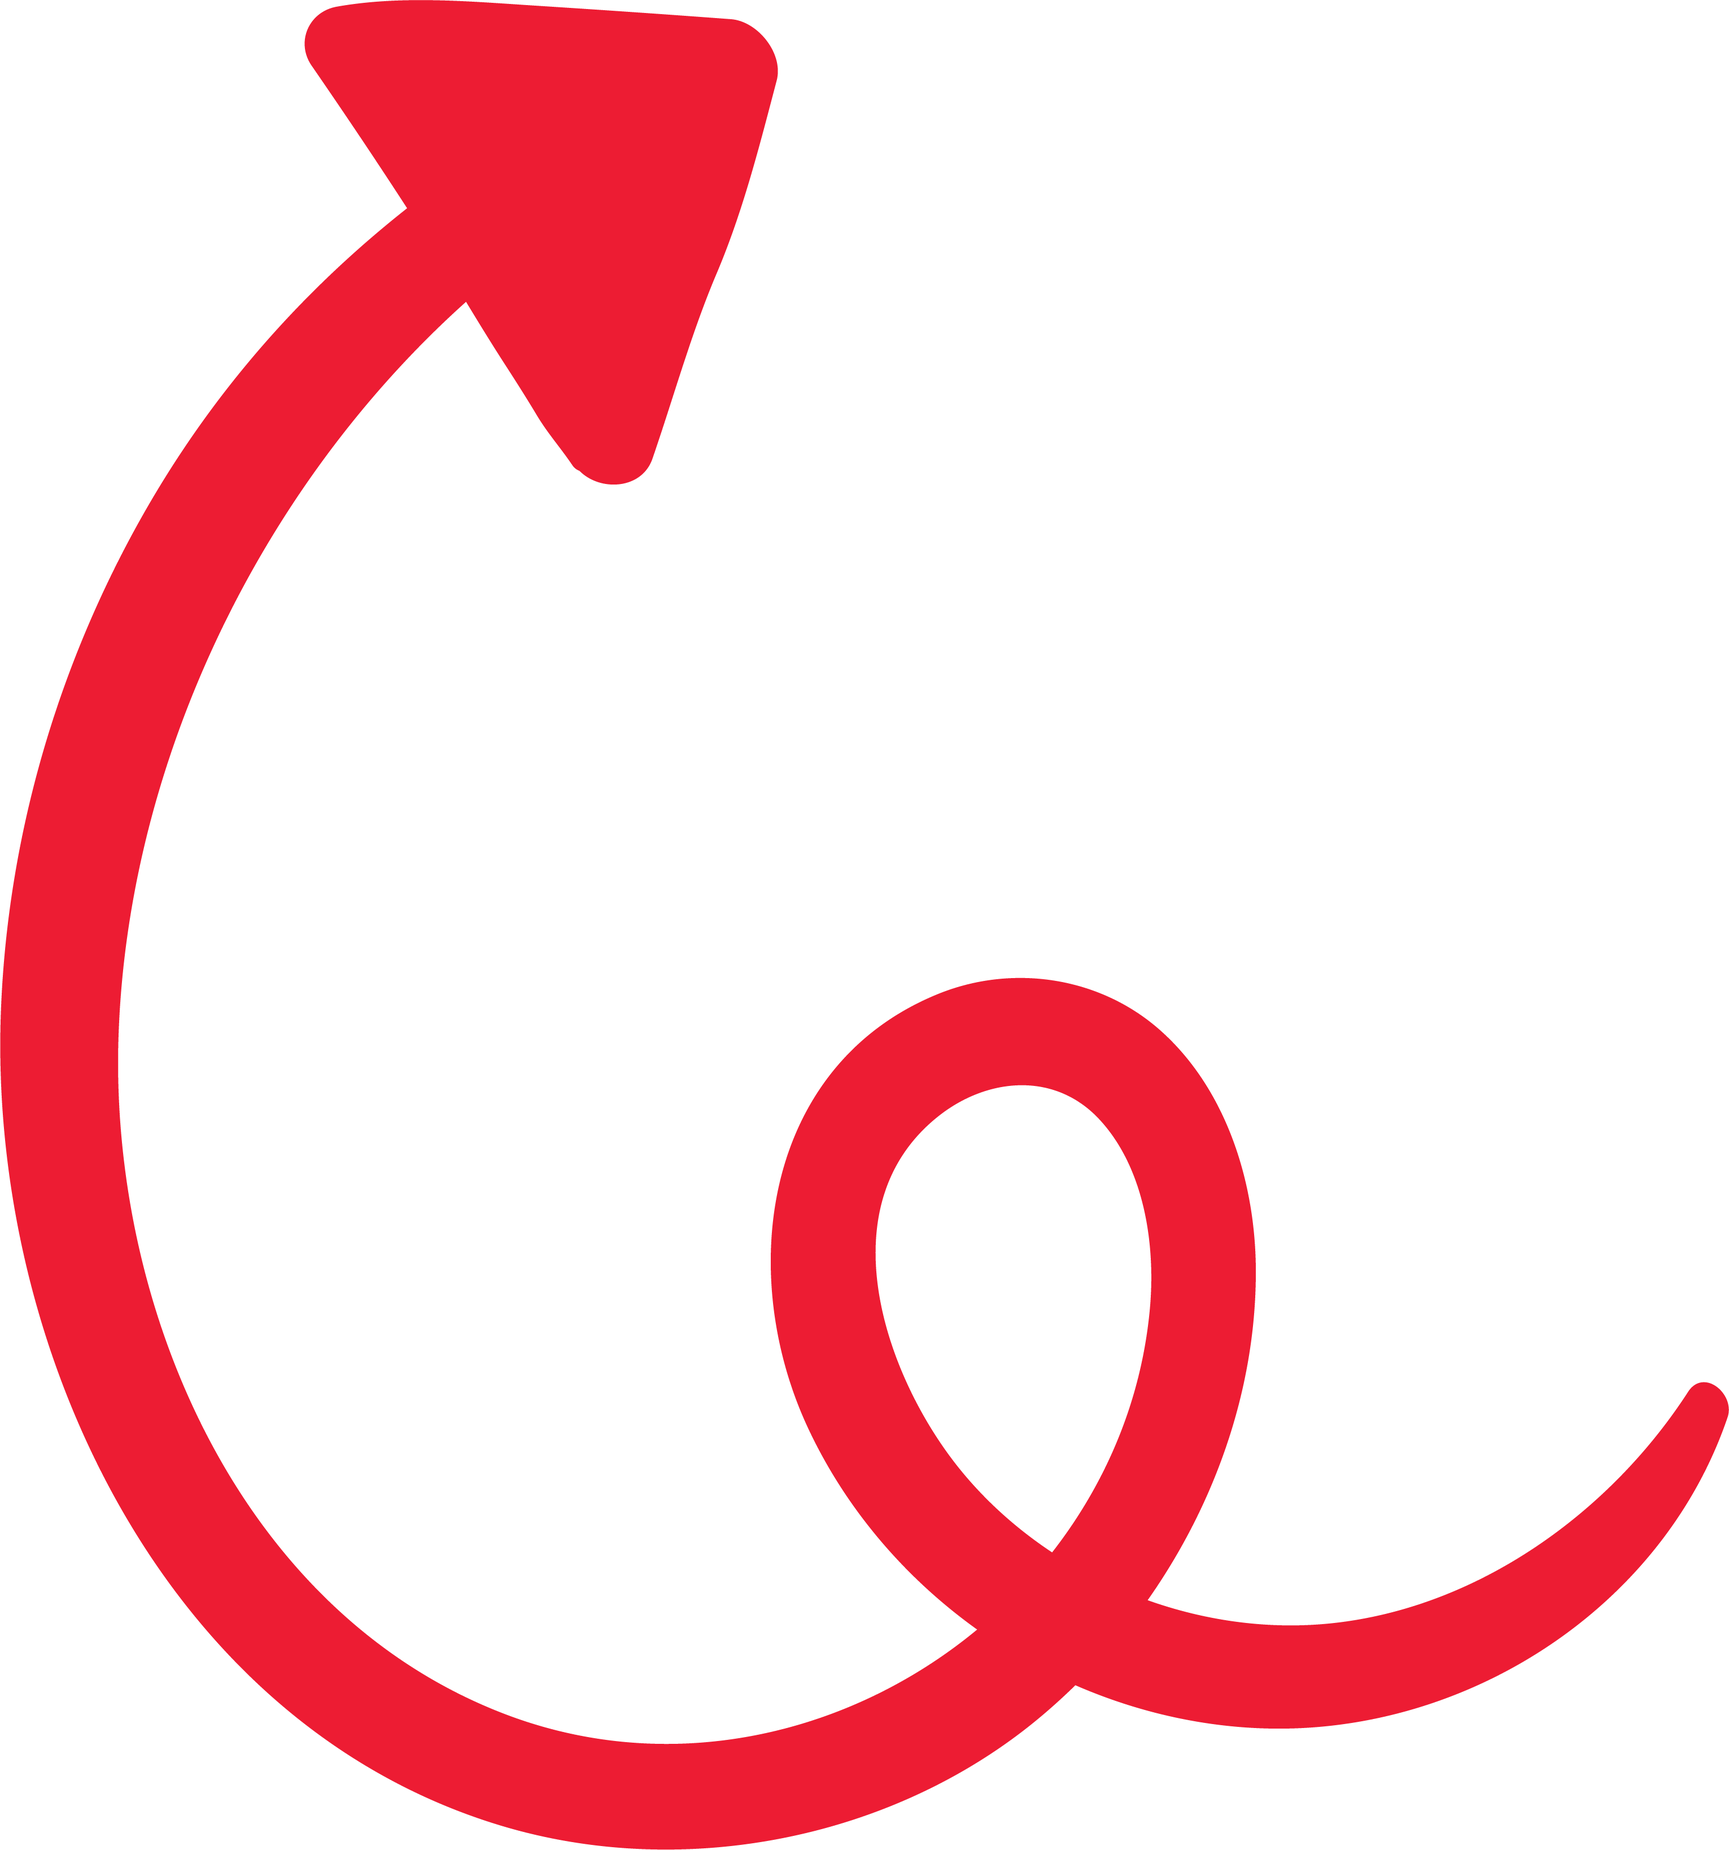
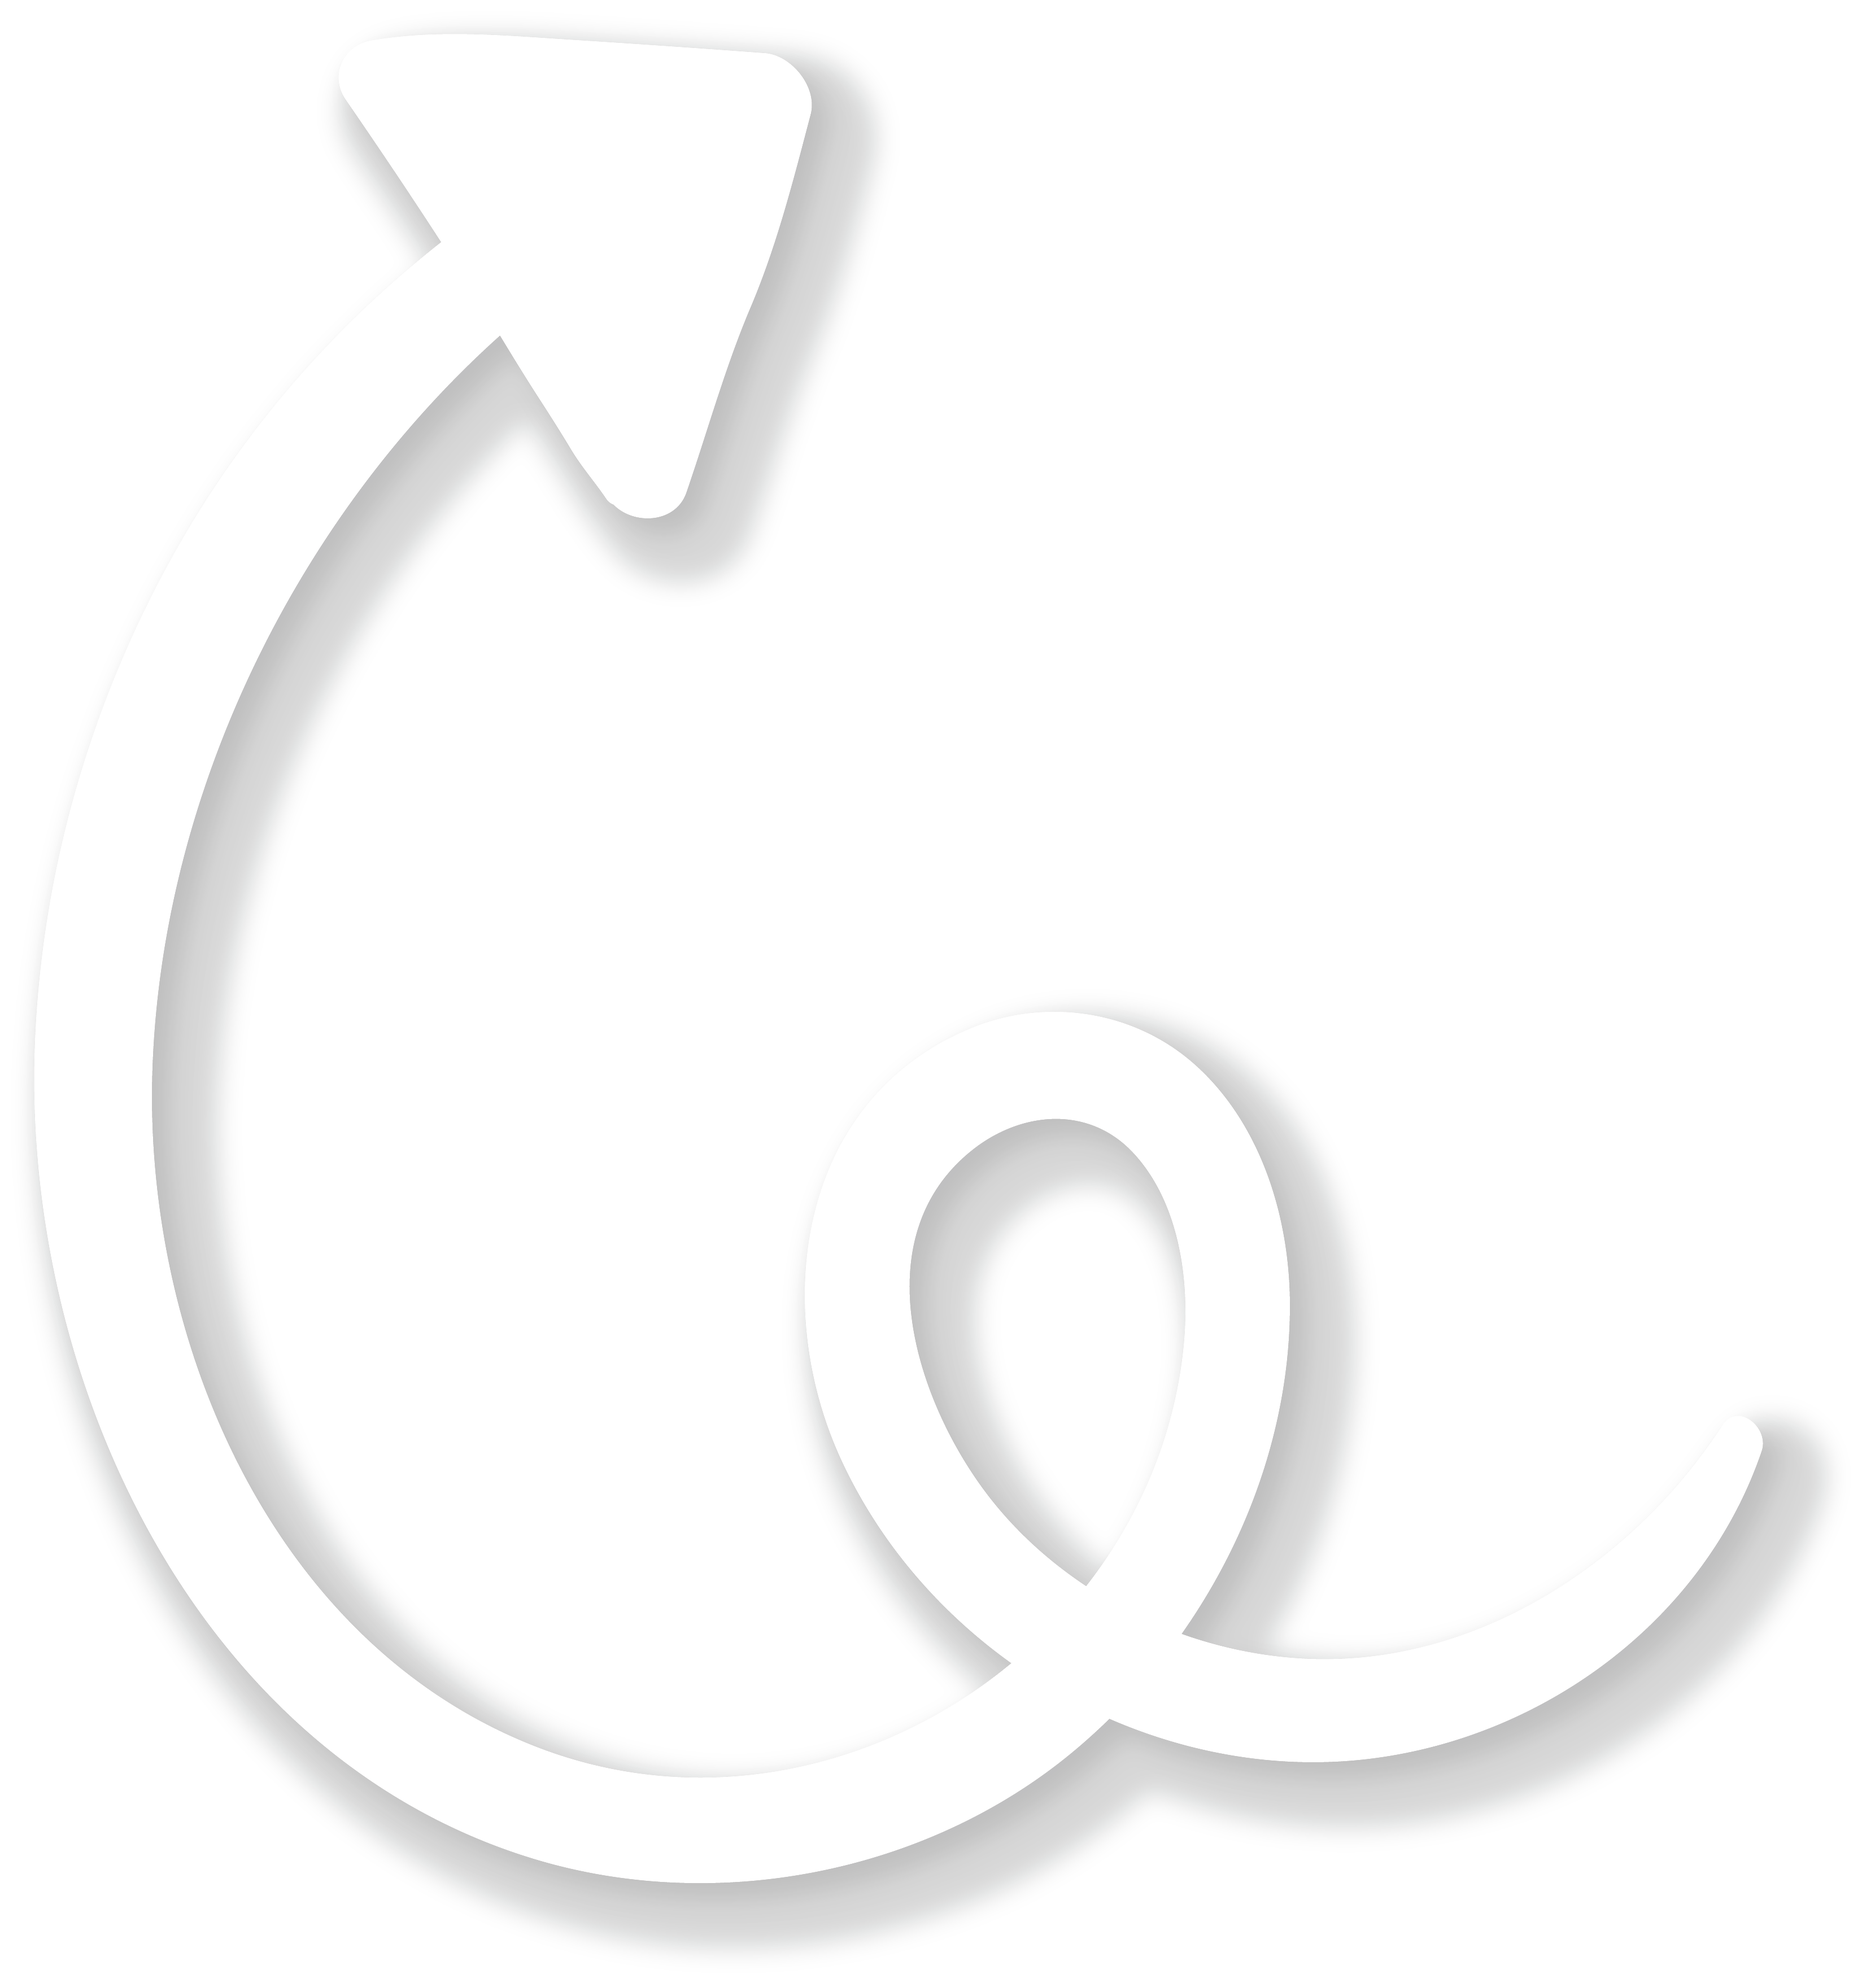
elias new backto topo

Changed region(s): [[0.0, 0.0, 1.0, 1.0]]

diff --git a/src/components/Elias/MenuVertical.js b/src/components/Elias/MenuVertical.js
@@ -28,17 +28,7 @@ function MenuVertical({ toggleTheme, isDarkoMode }) {
   const [firstActive, setFirstActive] = useState(true)
   const [scrollPosition, setScrollPosition] = useState(0)
   const locationScroll = window.scrollY
-  // const position = window.scrollTop
-  // const handleScroll = () => {
-  //   setScrollPosition(position)
-  // }
-  // useEffect(() => {
-  //   window.addEventListener("scroll", handleScroll, { passive: true })
-  //   console.log("this is the postion" + scrollPosition)
-  //   return () => {
-  //     window.removeEventListener("scroll", handleScroll)
-  //   }
-  // }, [position])
+
   const changeColor = () => {
     if (window.scrollY >= 80) {
       setNavBar1(true)
@@ -54,7 +44,6 @@ function MenuVertical({ toggleTheme, isDarkoMode }) {
 
   return (
     <>
-      {console.log(scrollPosition)}
       {breakpoints.sm ? (
         <>
           <CoverMobile>
@@ -206,7 +195,7 @@ function MenuVertical({ toggleTheme, isDarkoMode }) {
                     <div className="backtotop">
                       <AnchorLink href="#home">
                         <img
-                          src={backtotopwhite}
+                          src={backtotopBlack}
                           alt="Logo"
                           style={{ height: "35px" }}
                         />

diff --git a/src/components/Elias/Loader.js b/src/components/Elias/Loader.js
@@ -12,7 +12,7 @@ function Loader() {
     <>
       <Cover>
         {console.log(getRandomInt(2))}
-        <div className={getRandomInt(2) == 1 ? "allBody" : "secondBody"}>
+        <div className="allBody">
           {/* <div className="outer-ring center"></div>
           <div className="inner-ring center"></div> */}
 
@@ -65,7 +65,7 @@ const Cover = styled.div`
     align-items: center;
   }
   .secondBody {
-    background-color: #8bc6ec;
+    background-color: #191919;
     background-image: linear-gradient(135deg, #8bc6ec 0%, #9599e2 100%);
 
     height: 100vh;
